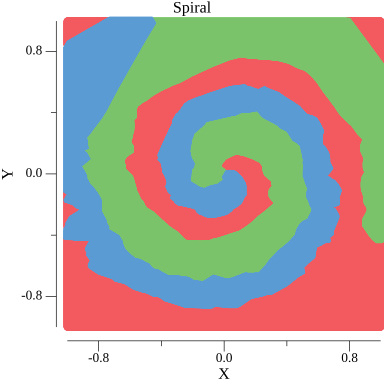
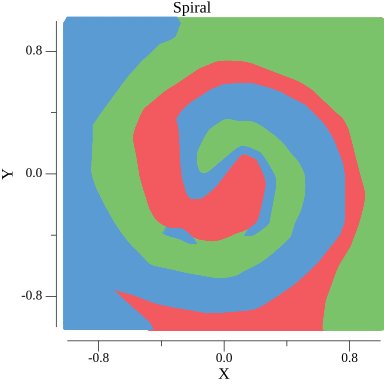
Dropout implemented, needs more work

diff --git a/nnfs/ch15/nnfs_ch15.go b/nnfs/ch15/nnfs_ch15.go
@@ -1,0 +1,161 @@
+package nnfs
+
+import (
+	"fmt"
+	"math/rand"
+	u "nnfs/utilities"
+
+	"gonum.org/v1/gonum/mat"
+	"gonum.org/v1/plot"
+	"gonum.org/v1/plot/plotter"
+	"gonum.org/v1/plot/plotutil"
+	"gonum.org/v1/plot/vg"
+)
+
+func Run1() {
+	fmt.Println("Dropout")
+	dropout_rate := 0.5
+	example_output := []float64{
+		0.27, -1.03, .67, .99, 0.05,
+		-0.37, -2.01, 1.13, -0.07, 0.73}
+
+	for {
+		index := rand.Intn(len(example_output))
+		example_output[index] = 0
+
+		dropped_out := 0.0
+		for _, value := range example_output {
+			if value == 0 {
+				dropped_out += 1
+			}
+		}
+
+		if dropped_out/float64(len(example_output)) >= dropout_rate {
+			break
+		}
+	}
+	fmt.Println(example_output)
+
+}
+
+func Run2() {
+	fmt.Println("Dropout with my own Binomial wannabe")
+	dropout_rate := 0.5
+	example_output := mat.NewDense(1, 10, []float64{
+		0.27, -1.03, .67, .99, 0.05,
+		-0.37, -2.01, 1.13, -0.07, 0.73})
+	binomial_mask := mat.NewDense(1, 10, u.Binomial(1, 1-dropout_rate, 10))
+	example_output.MulElem(example_output, binomial_mask)
+	fmt.Println("Before scaling", example_output)
+	example_output.Apply(func(r, c int, v float64) float64 {
+		return v / (1.0 - dropout_rate)
+	}, example_output)
+	fmt.Println("After scaling", example_output)
+}
+
+func Run3() {
+	fmt.Print("Full run with Dropout")
+	sample_size := 1000
+	class_size := 3
+	X, y := u.Create_spiral_data(sample_size, class_size)
+
+	y_one_hot := mat.NewDense(sample_size*class_size, class_size, nil)
+	for i := 0; i < y.RawMatrix().Rows; i++ {
+		y_one_hot.Set(i, int(y.At(i, 0)), 1.0)
+	}
+
+	dense_1 := u.NewLayerDense(2, 512)
+	dense_1.Name = "Dense 1"
+	dense_1.Bias_Regulizer_L2 = 5e-4
+	dense_1.Weight_Regulizer_L2 = 5e-4
+	activation_1 := u.NewActivationRelu()
+	dropout_1 := u.NewLayerDropout(.1)
+
+	dense_2 := u.NewLayerDense(512, class_size)
+	dense_2.Name = "Dense 2"
+	loss_activation := u.NewActivationSoftMaxLossCategoricalCrossEntropy()
+	optimizer := u.NewOptimizerAdam(0.02, 5e-7, 1e-7, 0.9, 0.999)
+
+	max_epoch := 20001
+	for i := 0; i < max_epoch; i++ {
+		dense_1.Forward(X)
+		activation_1.Forward(dense_1.Output)
+		dropout_1.Forward(activation_1.Output)
+		dense_2.Forward(dropout_1.Output)
+
+		data_loss := loss_activation.Forward(dense_2.Output, y_one_hot)
+
+		if i%100 == 0 {
+			regularization_loss := loss_activation.Loss.RegularizationLoss(dense_1) + loss_activation.Loss.RegularizationLoss(dense_2)
+			loss := data_loss + regularization_loss
+			fmt.Println("epoch", i, "data loss -->", data_loss, "regularization_loss -->", regularization_loss, "loss -->", loss)
+			accuracy := u.Accuracy(loss_activation.Activation.Output, y_one_hot)
+			fmt.Println("epoch", i, "acc -->", accuracy)
+		}
+
+		//backward pass
+		loss_activation.Backward(loss_activation.Activation.Output, y_one_hot)
+		dense_2.Backward(loss_activation.Dinputs)
+		dropout_1.Backward(dense_2.Dinputs)
+		activation_1.Backward(dropout_1.Dinputs)
+		dense_1.Backward(activation_1.Dinputs)
+
+		optimizer.PreUpdateParams()
+		optimizer.UpdateParameters(dense_1)
+		optimizer.UpdateParameters(dense_2)
+		optimizer.PostUpdateParams()
+	}
+
+	graph_x_y := mat.NewDense(1000*1000, 2, nil)
+	//build an x, y array for the graph that's a 1000, by 1000 box in the region -1-1 on both x and ys
+	graph_x_y.Apply(func(r, c int, v float64) float64 {
+		if c == 1 {
+			return float64(int(r/1000))*.001*2 - 1
+		}
+		return float64((r%1000))/1000*2 - 1
+	}, graph_x_y)
+
+	//now figure out
+	var graph_color = mat.NewDense(1000*1000, 1, nil)
+	dense_1.Forward(graph_x_y)
+	activation_1.Forward(dense_1.Output)
+	dense_2.Forward(activation_1.Output)
+	loss_activation.Activation.Forward(dense_2.Output)
+
+	graph_color.Apply(func(r, c int, v float64) float64 {
+		row := loss_activation.Activation.Output.RawRowView(r)
+		return float64(u.Argmax(row))
+	}, graph_color)
+
+	p := plot.New()
+	p.Title.Text = "Spiral"
+	p.X.Label.Text = "X"
+	p.Y.Label.Text = "Y"
+
+	pts1 := plotter.XYs{}
+	pts2 := plotter.XYs{}
+	pts3 := plotter.XYs{}
+
+	for i := 0; i < graph_x_y.RawMatrix().Rows; i++ {
+		x_val := graph_x_y.At(i, 0)
+		y_val := graph_x_y.At(i, 1)
+		switch graph_color.At(i, 0) {
+		case 0:
+			pts1 = append(pts1, plotter.XY{X: x_val, Y: y_val})
+		case 1:
+			pts2 = append(pts2, plotter.XY{X: x_val, Y: y_val})
+		case 2:
+			pts3 = append(pts3, plotter.XY{X: x_val, Y: y_val})
+		}
+	}
+
+	plotutil.AddScatters(p,
+		pts1,
+		pts2,
+		pts3)
+
+	// Save the plot to a PNG file.
+	if err := p.Save(4*vg.Inch, 4*vg.Inch, "ch14/spiral_output.png"); err != nil {
+		panic(err)
+	}
+}

diff --git a/nnfs/utilities/layer.go b/nnfs/utilities/layer.go
@@ -80,3 +80,32 @@ func (layer *LayerDense) Backward(dvalues *mat.Dense) {
 	layer.Dinputs = mat.NewDense(dvalues.RawMatrix().Rows, layer.Weights.RawMatrix().Rows, nil)
 	layer.Dinputs.Mul(dvalues, layer.Weights.T())
 }
+
+type LayerDropout struct {
+	rate                                float64
+	BinaryMask, Output, Inputs, Dinputs *mat.Dense
+}
+
+func (layer *LayerDropout) Forward(input *mat.Dense) {
+	layer.Inputs = mat.NewDense(input.RawMatrix().Rows, input.RawMatrix().Cols, nil)
+	layer.Inputs.Copy(input)
+
+	layer.BinaryMask = mat.NewDense(input.RawMatrix().Rows, input.RawMatrix().Cols, Binomial(1, layer.rate, input.RawMatrix().Rows*input.RawMatrix().Cols))
+	//scale the binary mask
+	layer.BinaryMask.Apply(func(r, c int, v float64) float64 {
+		return v / (1.0 - layer.rate)
+	}, layer.BinaryMask)
+
+	layer.Output = mat.NewDense(input.RawMatrix().Rows, input.RawMatrix().Cols, nil)
+	layer.Output.MulElem(layer.Inputs, layer.BinaryMask)
+}
+
+func (layer *LayerDropout) Backward(dvalues *mat.Dense) {
+	layer.Dinputs = mat.NewDense(dvalues.RawMatrix().Rows, dvalues.RawMatrix().Cols, nil)
+	layer.Dinputs.MulElem(dvalues, layer.BinaryMask)
+}
+
+func NewLayerDropout(rate float64) *LayerDropout {
+	output := &LayerDropout{rate: rate}
+	return output
+}

diff --git a/nnfs/utilities/numpy_wannabe.go b/nnfs/utilities/numpy_wannabe.go
@@ -1,6 +1,10 @@
 package nnfs
 
-import "gonum.org/v1/gonum/mat"
+import (
+	"math/rand"
+
+	"gonum.org/v1/gonum/mat"
+)
 
 func Linspace(start, end float64, num int) []float64 {
 	if num < 0 {
@@ -50,7 +54,7 @@ func Compare(first_input, second_input []float64) []float64 {
 	return output
 }
 
-//np.sum(dvalues, axis=0, keepdims=True)
+// np.sum(dvalues, axis=0, keepdims=True)
 func SumAxis0KeepDimsTrue(input *mat.Dense) *mat.Dense {
 	ouput := mat.NewDense(1, input.RawMatrix().Cols, nil)
 	for col := 0; col < ouput.RawMatrix().Cols; col++ {
@@ -61,6 +65,18 @@ func SumAxis0KeepDimsTrue(input *mat.Dense) *mat.Dense {
 		ouput.Set(0, col, sum)
 	}
 	return ouput
+}
+
+func Binomial(number_of_experiments int, probability float64, size int) []float64 {
+	output := make([]float64, size)
+	experiment := 0
+	for experiment < number_of_experiments {
+		for index, _ := range output {
+			output[index] += float64(rand.Intn(2))
+		}
+		experiment += 1
+	}
+	return output
 }
 
 func Accuracy(predictions, targets *mat.Dense) float64 {

diff --git a/nnfs/utilities/activation.go b/nnfs/utilities/activation.go
@@ -59,6 +59,8 @@ func (activation *ActivationSoftMax) Forward(input *mat.Dense) {
 		var soft_maxed = make([]float64, activation.Output.RawMatrix().Cols)
 		soft_maxed_sum := 0.0
 
+		//had some stability issues, decided to subtract the max as suggested here
+		//https://stackoverflow.com/questions/42599498/numerically-stable-softmax
 		max_in_row := input.At(i, 0)
 		for j := 0; j < activation.Output.RawMatrix().Cols; j++ {
 			max_in_row = math.Max(max_in_row, input.At(i, j))

diff --git a/nnfs/main.go b/nnfs/main.go
@@ -4,6 +4,7 @@ import (
 	"math/rand"
 	nnfsch10 "nnfs/ch10"
 	nnfsch14 "nnfs/ch14"
+	nnfsch15 "nnfs/ch15"
 	nnfsCh2_4 "nnfs/ch2-4"
 	nnfsCh5 "nnfs/ch5"
 	nnfsCh6 "nnfs/ch6"
@@ -13,7 +14,7 @@ import (
 
 func main() {
 	rand.Seed(42)
-	ch14()
+	ch15()
 }
 
 func ch2_4() {
@@ -82,4 +83,10 @@ func ch14() {
 	nnfsch14.Run1()
 	nnfsch14.Run2()
 	nnfsch14.Run3()
+}
+
+func ch15() {
+	nnfsch15.Run1()
+	nnfsch15.Run2()
+	nnfsch15.Run3()
 }
